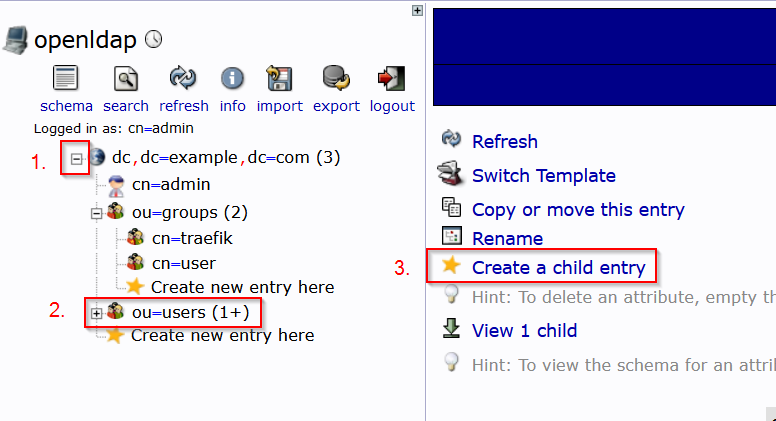
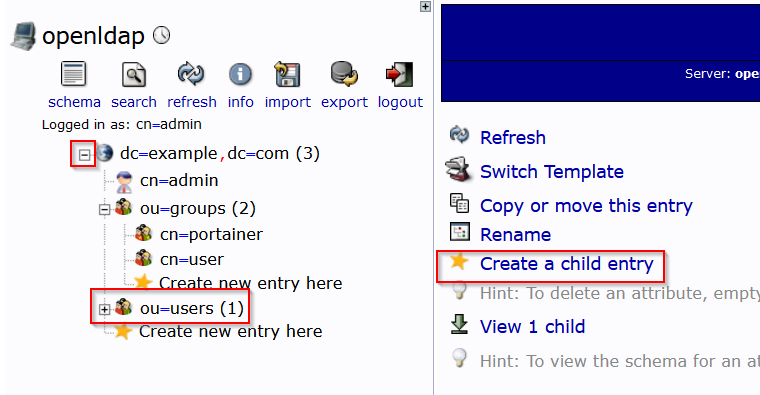
Fix group name

diff --git a/finalize.py b/finalize.py
@@ -42,7 +42,7 @@ def portainer(url: str, env: dict):
             "StartTLS": False,
             "SearchSettings": [{
                 "BaseDN": f"ou=users,{dc}",
-                "Filter": f"(memberOf=cn=traefik,ou=groups,{dc})",
+                "Filter": f"(memberOf=cn=portainer,ou=groups,{dc})",
                 "UserNameAttribute": "uid"
             }],
             "GroupSearchSettings": [{
